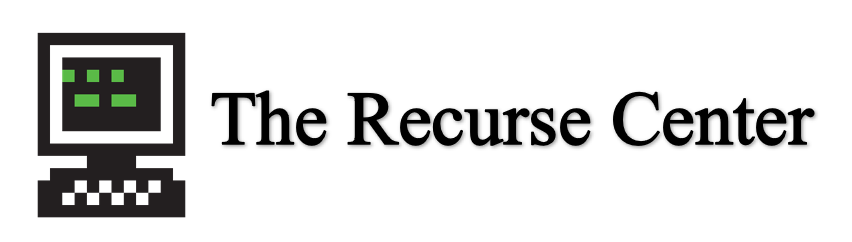
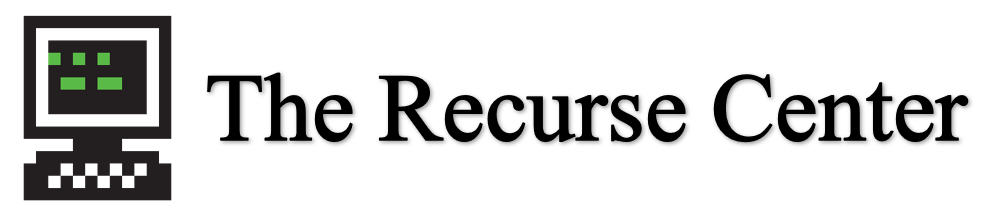
Changed Sponsor Images

Changed region(s): [[0.0, 0.0556, 1.0, 0.9444]]

diff --git a/index.html b/index.html
@@ -211,7 +211,7 @@
         <h3> Alicia T. Singham Goodwin </h3>
         <p> Recurse Center Facilitator </p>
         <a href="https://www.recurse.com/" target="_blank">
-            <img src="img/Recurse Center with Text.png" alt="Recurse Center" width= "275" height= "75">  
+            <img src="img/Recurse Center with Text (3).png" alt="Recurse Center" width= "275" height= "75">  
         </a>
         <br>
         <br>
@@ -225,6 +225,7 @@
         <br>
         <br>
         <br>
+
         <h3> Sheetal Rishi </h3>
         <p> Global Cognitive and Data Leader </p>
         <a href="https://www.ibm.com/us-en/?ar=1" target="_blank">
@@ -264,7 +265,7 @@
             
             <div class="col-sm-4">
                 <a href="http://avi.com" target="_blank">
-                    <img class="av" alt="Applied Visions" src="img/Applied Visions.png"></a>
+                    <img class="avi" alt="Applied Visions" src="img/Applied Visions.png"></a>
             </div>
 
              <div class="col-sm-4">
@@ -279,7 +280,7 @@
 
             <div class="col-sm-4">
                 <a href="https://www.recurse.com/" target="_blank">
-                    <img class="Recurse" alt="Recurse Center" src="img/Recurse Center with Text.png"></a>
+                    <img class="Recurse" alt="Recurse Center" src="img/Recurse Center with Text (3).png"></a>
             </div>
             <!-- Beginning of Sponser Comments
             <div class="col-sm-6">
